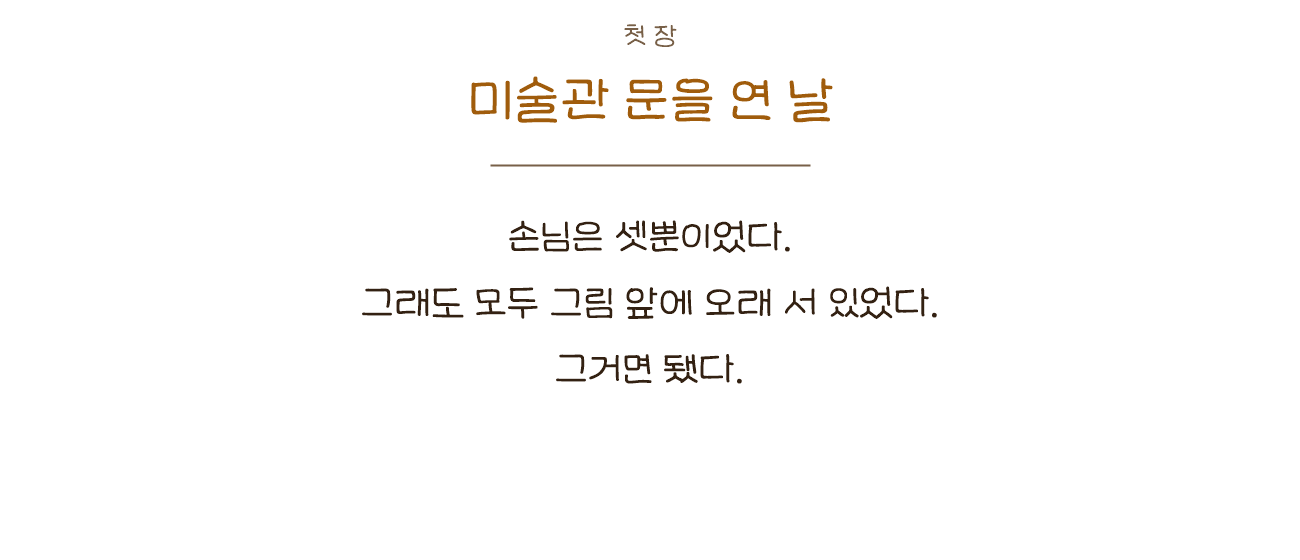
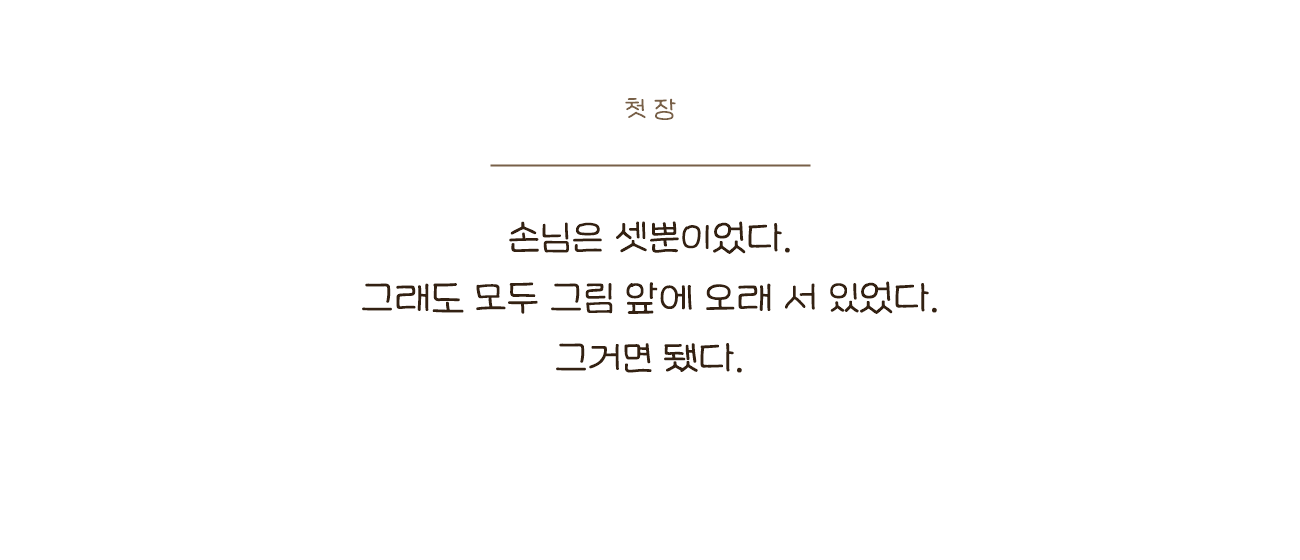
이야기 쪽 제목 삭제 (일기장은 시점 글자만 남김)

diff --git a/docs/claude/SESSION_HANDOFF.md b/docs/claude/SESSION_HANDOFF.md
@@ -771,3 +771,4 @@ Phase 1에서 한 일 (2026-10-29):
 - **입구 안내판(개발 후기 `StorySign`)은 자동 열림을 껐다**(`openOnFirstVisit` = false). E로만 열린다.
 - 기획서 `docs/LAST_BULLET_Plan.md` 2.11: 회색 조각상 설정과 옛 시작·엔딩 독백 초안을 새 이야기(거울 너머 그림자, 열쇠, 확정판 글 파일 위치)로 바꿨다.
 - 확인(미술관 실행): 기억을 지우고 들어가니 시작 창만 저절로 열림(안내판·일기장·결말 창은 닫힘), "1 / 4" 쪽과 글이 보임. 테스트 뒤 기억을 다시 지워서 사용자의 다음 첫 입장에 시작 이야기가 뜬다. **못 한 것: 일기장 책상에서 시작 이야기를 다시 보는 길(질문 선택지에 적었지만 만들지 않았다 — 필요하면 알려 달라), 실제 다시하기 뒤 재표시(코드 연결만 함).**
+- (2026-11-11 사용자 요청) **이야기 쪽 제목을 없앴다**: 시작 이야기(`0_OpeningPages.txt`)·결말(`0_EndingPages.txt`)의 쪽 제목줄(`<size=125%>…</size>`)을 지웠고, 일기장 그림 4장(`Diary_01~04.png`)은 큰 제목(주황색)을 없애고 **시점 글자(첫 장 / 여러 해 뒤 / 어느 밤 / 마지막 장)는 그대로** 두되 제목 자리(위에서 110)로 옮겼다. 본문·가는 줄 자리는 그대로. 확인: 미술관 실행 화면에서 시작 이야기 2쪽과 일기장 1쪽. 일기장 그림은 같은 크기(1300×560)라 연결은 그대로.
